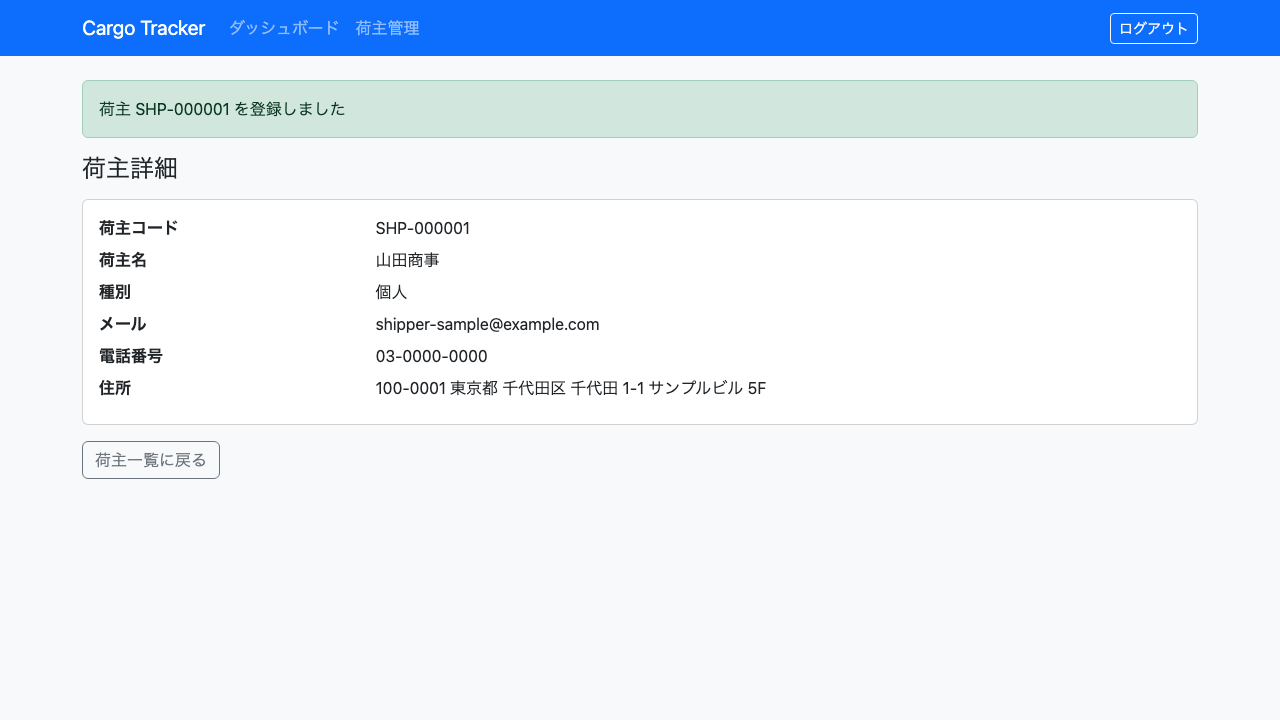
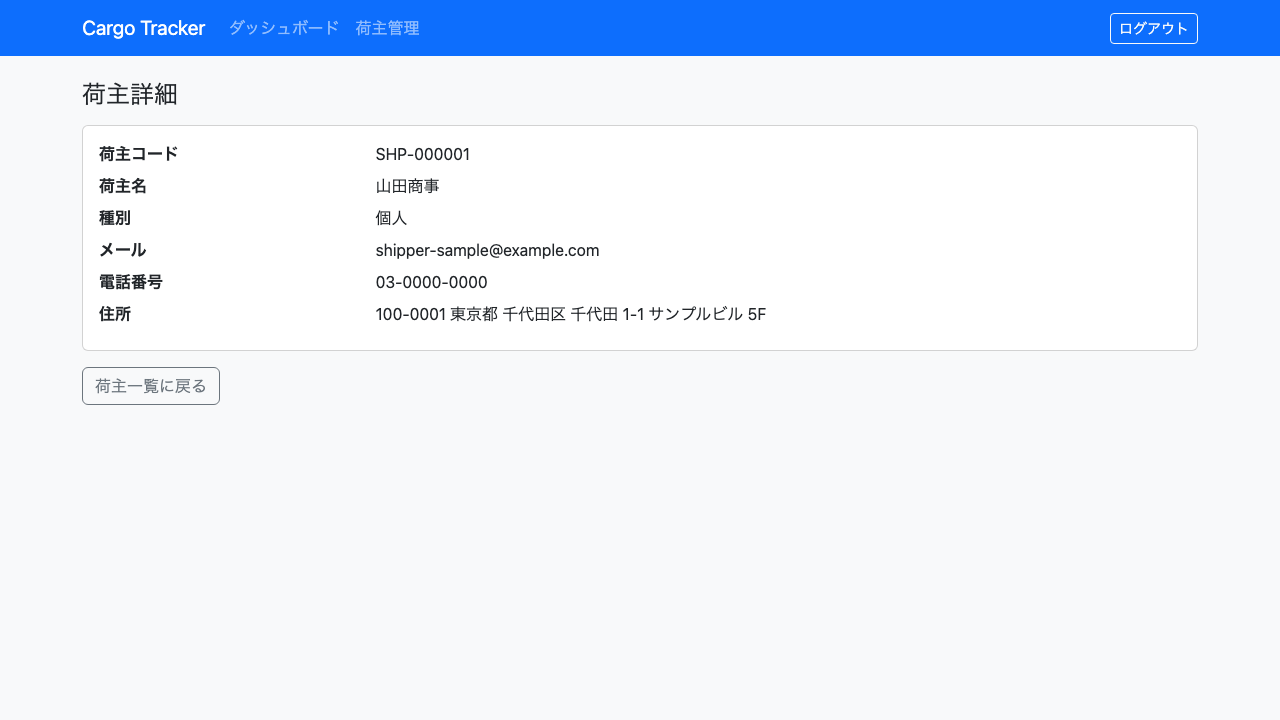
feat(dev): DevTools と動作確認用シードデータを導入する
「直して確かめる」の間隔を短くし、起動してすぐ画面を触れるようにする。

## DevTools

- spring-boot-devtools を developmentOnly で追加。bootJar に含まれない
  ことを確認済み（本番に再起動の仕組みは不要でリスクにしかならない）
- local プロファイルで自動再起動と LiveReload を有効化。テンプレートと
  静的リソースは再起動の対象外にし、LiveReload だけが走るようにした

**DevTools は Gradle では単体で機能しない。** 監視対象は classpath
（build/classes・build/resources）であり、src/ の編集は届かない。
継続ビルドを併走させて初めて働く。これは「依存を足したのに効かない」と
なる典型のため、app:watch タスクとして用意し、実際にテンプレートの変更が
再起動なしで反映されることを確認した。

あわせて app:start が Docker を要求していたのを外した。ADR-003 の改訂で
ローカル起動は H2 になっており、要求は実態と合っていなかった。

## 動作確認用シードデータ

- db/demo/V900__demo_shipper.sql を追加。**ユーザーマニュアルの画面
  キャプチャと同じ荷主**であり、マニュアルの図と開発環境の画面が
  食い違わないようにする
- local / dev の spring.flyway.locations にのみ含める。**本番の
  マイグレーションには入らない**ことを DemoDataTest が固定する
- キャプチャ spec 側の登録処理を削除し、シードを参照する形にした。
  テストの実行順への依存が消え、出所が 1 つに揃う

./gradlew check 緑（30 テスト / Checkstyle 0 / SpotBugs 0）。

Changed region(s): [[0.0625, 0.0917, 0.9375, 0.55], [0.2812, 0.4889, 0.5938, 0.55], [0.0625, 0.6111, 0.1562, 0.6722]]

diff --git a/e2e/manual/manual-screenshots.spec.js b/e2e/manual/manual-screenshots.spec.js
@@ -17,16 +17,17 @@ const ASSETS = path.join(process.cwd(), 'docs', 'manual', 'assets');
 /** シードされた営業担当者。ロール別の表示を撮るために使う。 */
 const SALES = { username: 'sales', password: 'password' };
 
-/** キャプチャ用のダミー荷主。実在の企業・個人を使わない。 */
-const DUMMY_SHIPPER = {
+/**
+ * 動作確認用の荷主。**アプリ側のシード（db/demo/V900__demo_shipper.sql）と同じ内容**である。
+ *
+ * ここで登録し直さずシードを使うのは、テストの実行順に依存させないためと、
+ * マニュアルの図・開発環境の画面・キャプチャの 3 者を 1 つの出所に揃えるためである。
+ * 実在の企業・個人は使わない。
+ */
+const DEMO_SHIPPER = {
+  code: 'SHP-000001',
   name: '山田商事',
   email: 'shipper-sample@example.com',
-  phone: '03-0000-0000',
-  country: 'JP',
-  postalCode: '100-0001',
-  region: '東京都',
-  city: '千代田区',
-  street: '千代田 1-1 サンプルビル 5F',
 };
 
 /**
@@ -81,26 +82,11 @@ test('03-shipper-form（荷主登録）', async ({ page }) => {
 
 test('03-shipper-detail（荷主詳細）', async ({ page }) => {
   await login(page, SALES);
-  await page.goto('/shippers/new');
-  await page.check('#typeIndividual');
-  await page.fill('#name', DUMMY_SHIPPER.name);
-  await page.fill('#email', DUMMY_SHIPPER.email);
-  await page.fill('#phone', DUMMY_SHIPPER.phone);
-  await page.fill('#addressCountry', DUMMY_SHIPPER.country);
-  await page.fill('#addressPostalCode', DUMMY_SHIPPER.postalCode);
-  await page.fill('#addressRegion', DUMMY_SHIPPER.region);
-  await page.fill('#addressCity', DUMMY_SHIPPER.city);
-  await page.fill('#addressStreet', DUMMY_SHIPPER.street);
-  // ナビゲーションの「ログアウト」も submit ボタンである。名前で特定する
-  await page.getByRole('button', { name: '登録' }).click();
-
-  // H2 は再起動で消えるが、サーバを使い回した場合は登録済みのことがある。
-  // その場合は重複として提示された既存荷主の詳細へ進む（撮影対象は同じ画面）
-  const duplicate = page.getByText('既に登録');
-  if (await duplicate.isVisible().catch(() => false)) {
-    await page.getByRole('link', { name: /SHP-/ }).click();
-  }
+  await page.goto('/shippers');
+  // 一覧の「詳細」から開く。読者がマニュアルどおりに辿る経路と同じにする
+  await page.getByRole('link', { name: '詳細' }).first().click();
   await expect(page.getByRole('heading', { name: '荷主詳細' })).toBeVisible();
+  await expect(page.getByText(DEMO_SHIPPER.code)).toBeVisible();
   await capture(page, '03-shipper-detail.png');
 });
 
@@ -108,7 +94,7 @@ test('03-shipper-list（荷主一覧）', async ({ page }) => {
   await login(page, SALES);
   await page.goto('/shippers');
   // 空状態ではなく、代表的な 1 件が表示された状態で撮る
-  await expect(page.locator('table tbody tr').first()).toBeVisible();
+  await expect(page.getByText(DEMO_SHIPPER.name)).toBeVisible();
   await capture(page, '03-shipper-list.png');
 });
 
@@ -116,13 +102,14 @@ test('03-shipper-duplicate（メールアドレスの重複）', async ({ page }
   await login(page, SALES);
   await page.goto('/shippers/new');
   await page.check('#typeIndividual');
-  await page.fill('#name', DUMMY_SHIPPER.name);
-  // 直前のテストで登録済みのメールアドレスを再入力して重複を再現する
-  await page.fill('#email', DUMMY_SHIPPER.email);
-  await page.fill('#addressCountry', DUMMY_SHIPPER.country);
-  await page.fill('#addressPostalCode', DUMMY_SHIPPER.postalCode);
-  await page.fill('#addressRegion', DUMMY_SHIPPER.region);
-  await page.fill('#addressCity', DUMMY_SHIPPER.city);
+  await page.fill('#name', DEMO_SHIPPER.name);
+  // シード済みのメールアドレスを入力して重複を再現する
+  await page.fill('#email', DEMO_SHIPPER.email);
+  await page.fill('#addressCountry', 'JP');
+  await page.fill('#addressPostalCode', '100-0001');
+  await page.fill('#addressRegion', '東京都');
+  await page.fill('#addressCity', '千代田区');
+  // ナビゲーションの「ログアウト」も submit ボタンである。名前で特定する
   await page.getByRole('button', { name: '登録' }).click();
   await expect(page.getByText('既に登録')).toBeVisible();
   await capture(page, '03-shipper-duplicate.png');

diff --git a/ops/scripts/app.js b/ops/scripts/app.js
@@ -58,9 +58,12 @@ function gradle(args, options = {}) {
 /**
  * Docker が必要なタスクの前提を確認する。
  *
- * ADR-003 により H2 を採用しないため、統合テストと開発サーバーの起動には
- * PostgreSQL が必要である。Docker が停止した状態で実行すると、
- * 原因の分かりにくいエラーで失敗するため事前に検出する。
+ * ADR-003 の改訂により、ローカル起動（local プロファイル）は H2 を使うため
+ * Docker を必要としない。Docker が要るのは Repository / Mapper のテスト
+ * （Testcontainers）と、本番互換を確認する local-postgres プロファイルである。
+ *
+ * Docker が停止した状態で実行すると原因の分かりにくいエラーで失敗するため、
+ * 必要な場合に限って事前に検出する。
  */
 function requireDocker(taskName) {
   if (!isDockerAvailable()) {
@@ -99,11 +102,34 @@ export default function appTasks(gulp) {
   });
 
   gulp.task('app:start', (done) => {
-    requireDocker('app:start');
-    startDatabase();
+    // local プロファイルは H2 のため Docker を必要としない（ADR-003）。
+    // PostgreSQL を使うプロファイルのときだけ DB を起動する。
+    const needsDatabase = DEFAULT_PROFILE.includes('postgres');
+    if (needsDatabase) {
+      requireDocker('app:start');
+      startDatabase();
+    }
     console.log(`\n開発サーバーを起動します（プロファイル: ${DEFAULT_PROFILE}）`);
     console.log(`  アプリ: http://localhost:${appPort()}/`);
-    gradle(`bootRun --args='--spring.profiles.active=${DEFAULT_PROFILE}'`);
+    console.log('  ログイン情報は事前入力済みです（app.demo-login）');
+    console.log('\n  変更を即座に反映するには、別のターミナルで app:watch を実行してください');
+    gradle(`bootRun -PincludeH2=true --args='--spring.profiles.active=${DEFAULT_PROFILE}'`);
+    done();
+  });
+
+  /**
+   * 継続ビルド。DevTools と組み合わせて使う。
+   *
+   * **DevTools は classpath（build/classes・build/resources）を監視する。**
+   * Gradle では src/ を編集しただけでは classpath に反映されないため、
+   * app:start だけでは自動再起動も LiveReload も起きない。
+   * 本タスクを別のターミナルで動かし続けることで初めて機能する。
+   */
+  gulp.task('app:watch', (done) => {
+    console.log('\n継続ビルドを開始します（Ctrl+C で終了）');
+    console.log('  app:start を別のターミナルで起動しておいてください');
+    console.log('  Java の変更 → 自動再起動 / テンプレートの変更 → LiveReload');
+    gradle('--continuous classes');
     done();
   });
 
@@ -226,7 +252,8 @@ export default function appTasks(gulp) {
 
 開発:
   app:db              DB / Adminer コンテナを起動
-  app:start           開発サーバーを起動（DB 起動を含む）
+  app:start           開発サーバーを起動（local プロファイル・H2）
+  app:watch           継続ビルド（DevTools の自動再起動・LiveReload に必要）
   app:stop            DB / Adminer コンテナを停止
   app:open            アプリをブラウザで開く
 

diff --git a/apps/cargo-tracker/src/test/java/com/example/cargotracker/shipper/DemoDataTest.java b/apps/cargo-tracker/src/test/java/com/example/cargotracker/shipper/DemoDataTest.java
@@ -1,0 +1,31 @@
+package com.example.cargotracker.shipper;
+
+import static org.assertj.core.api.Assertions.assertThat;
+
+import com.example.cargotracker.shipper.domain.repository.ShipperRepository;
+import com.example.cargotracker.support.PostgreSQLIntegrationTestBase;
+import org.junit.jupiter.api.Test;
+import org.springframework.beans.factory.annotation.Autowired;
+
+/**
+ * 動作確認用データ（{@code db/demo}）の適用範囲を検証する。
+ *
+ * <p><strong>動作確認用データが本番のマイグレーションに混ざってはならない。</strong>
+ * {@code db/demo} は local / dev プロファイルの {@code spring.flyway.locations} に
+ * 明示的に追加した場合にのみ適用される。既定の locations には含めない。
+ *
+ * <p>test プロファイルは既定の locations を使うため、ここでデータが存在したら
+ * それは「本番にも入る経路がある」ことを意味する。
+ */
+class DemoDataTest extends PostgreSQLIntegrationTestBase {
+
+    @Autowired
+    private ShipperRepository repository;
+
+    @Test
+    void 既定のマイグレーションに動作確認用データは含まれない() {
+        assertThat(repository.findByEmail(
+                        new com.example.cargotracker.shipper.domain.model.Email("shipper-sample@example.com")))
+                .isEmpty();
+    }
+}

diff --git a/docs/operation/アプリケーション開発環境セットアップ手順書.md b/docs/operation/アプリケーション開発環境セットアップ手順書.md
@@ -232,10 +232,17 @@ SPRING_PROFILES_ACTIVE=e2e ./gradlew bootRun
 
 ### タスクランナー経由（推奨）
 
+**ターミナルを 2 つ使います。**
+
 ```bash
-# 開発サーバー起動（DB コンテナの起動を含む）
+# ターミナル 1: 開発サーバー起動（local プロファイル・H2）
 npx gulp app:start
 
+# ターミナル 2: 継続ビルド（DevTools の自動再起動・LiveReload に必要）
+npx gulp app:watch
+```
+
+```bash
 # TDD モード（変更を検知してテストを再実行）
 npx gulp app:tdd
 
@@ -243,12 +250,28 @@ npx gulp app:tdd
 npx gulp app:help
 ```
 
-`app:*` タスクは実行前に **Docker の可用性を確認**します。停止していると、原因の分かりにくいエラーではなく「Docker が必要です」という明示的なメッセージで停止します。
+### DevTools（自動再起動・LiveReload）
+
+`spring-boot-devtools` を `developmentOnly` 依存として導入しています。**本番の成果物（bootJar）には含まれません。**
+
+| 変更した対象 | 起きること |
+| :--- | :--- |
+| Java のコード | アプリが自動で再起動する |
+| テンプレート・静的リソース | 再起動せず、LiveReload でブラウザが再読込される |
+
+> **`app:watch` を併走させないと DevTools は働きません。** DevTools が監視するのは classpath（`build/classes` / `build/resources`）であり、Gradle では `src/` を編集しただけではそこに反映されません。**「依存を足したのに何も起きない」となる典型がこれです。**
+>
+> LiveReload はブラウザ拡張が必要です（ポート 35729）。拡張を入れない場合は手動で再読込してください。
+
+ログイン画面には動作確認用の利用者が事前入力され、荷主も 1 件シードされています（[開発環境セットアップ手順書](開発環境セットアップ手順書.md)）。起動してすぐ画面を触れます。
+
+`app:db` / `app:test` などデータベースを使うタスクは実行前に **Docker の可用性を確認**します。停止していると、原因の分かりにくいエラーではなく「Docker が必要です」という明示的なメッセージで停止します。**`app:start` は H2 を使うため Docker を必要としません**（ADR-003）。
 
 | タスク | 内容 |
 |-------|------|
 | `app:db` / `app:stop` | DB・Adminer コンテナの起動 / 停止 |
 | `app:start` / `app:open` | 開発サーバー起動 / ブラウザで開く |
+| `app:watch` | 継続ビルド（DevTools の自動再起動・LiveReload に必要） |
 | `app:test` / `app:tdd` / `app:coverage` | テスト / TDD モード / カバレッジ |
 | `app:lint` / `app:check` | 静的解析 / テスト + 静的解析 |
 | `app:build` / `app:clean` | ビルド / 成果物削除 |
@@ -624,6 +647,7 @@ npx husky init
 | スクリプト | 内容 |
 |-----------|------|
 | `npm run app:start` | 開発サーバー起動（local プロファイル） |
+| `npm run app:watch` | 継続ビルド（DevTools の自動再起動・LiveReload に必要） |
 | `npm run app:test` | テスト実行 |
 | `npm run app:check` | テスト + 静的解析 |
 | `npm run app:lint` | 静的解析のみ |

diff --git a/docs/design/tech_stack.md b/docs/design/tech_stack.md
@@ -129,6 +129,13 @@ tags: design, tech-stack, java, spring-boot, postgresql
 | IntelliJ IDEA | - | IDE | Java / Spring Boot 開発の標準 IDE、DDD パターン対応リファクタリング支援 | Commercial / Community | GA（JetBrains サポート） |
 | Node.js | 22.x | 開発タスクランナー | Gulp タスク実行、MkDocs 連携スクリプト | MIT | GA（LTS） |
 | Gulp | 5.x | タスクランナー | 運用スクリプトの統合管理、開発ワークフローの自動化 | MIT | GA（アクティブ開発中） |
+| Spring Boot DevTools | 4.0.5 | 自動再起動・LiveReload | 「直して確かめる」の間隔を短くする。`developmentOnly` 依存とし、本番の成果物には含めない | Apache 2.0 | GA |
+| Playwright | 1.62.x | マニュアルの画面キャプチャ生成 | UI 変更のたびにキャプチャを撮り直す作業を自動化する。E2E テストとしての利用は IT6 から（`development_strategy.md`） | Apache 2.0 | GA |
+
+> **DevTools は Gradle では単体で機能しない。** DevTools が監視するのは classpath
+> （`build/classes` / `build/resources`）であり、`src/` の編集はそのままでは届かない。
+> 継続ビルド（`npx gulp app:watch`）を併走させて初めて自動再起動と LiveReload が働く。
+> 「依存を足したのに効かない」となりやすい点であるため、運用タスクとして用意している。
 
 ## 外部システム連携技術
 

diff --git a/docs/manual/index.md b/docs/manual/index.md
@@ -44,10 +44,16 @@
 | 実行コマンド | `npm run screenshots:manual` |
 | 出力先 | `docs/manual/assets/` |
 | 配信 | `local` プロファイル（H2）で起動したアプリを Playwright の `webServer` が立ち上げる |
-| データ | Flyway のシードユーザーと、spec 内で登録するダミー荷主のみ |
+| データ | Flyway のシード（`db/migration/common/V3__seed_users.sql` と `db/demo/V900__demo_shipper.sql`）のみ |
 | 命名 | `<章番号>-<英字スラッグ>.png`（例: `02-login.png`） |
 
 実在の顧客名・住所・電話番号・メールアドレスはキャプチャにも本文にも載せません。マニュアルは Git 管理下で公開されるためです。
+
+> **キャプチャに写るデータはアプリ側のシードと同じものです**（`db/demo`）。spec の中で登録し直しません。
+> マニュアルの図・開発環境の画面・キャプチャの 3 者を 1 つの出所に揃えるためで、
+> 別々に用意すると「マニュアルと画面で名前が違う」という食い違いが必ず起きます。
+> シードは local / dev プロファイルでのみ適用され、**本番のマイグレーションには含まれません**
+> （`DemoDataTest` が固定しています）。
 
 > **キャプチャ spec は通常のテスト実行（`./gradlew check`）の対象外です。** ドキュメント生成であり検証ではありません。
 
